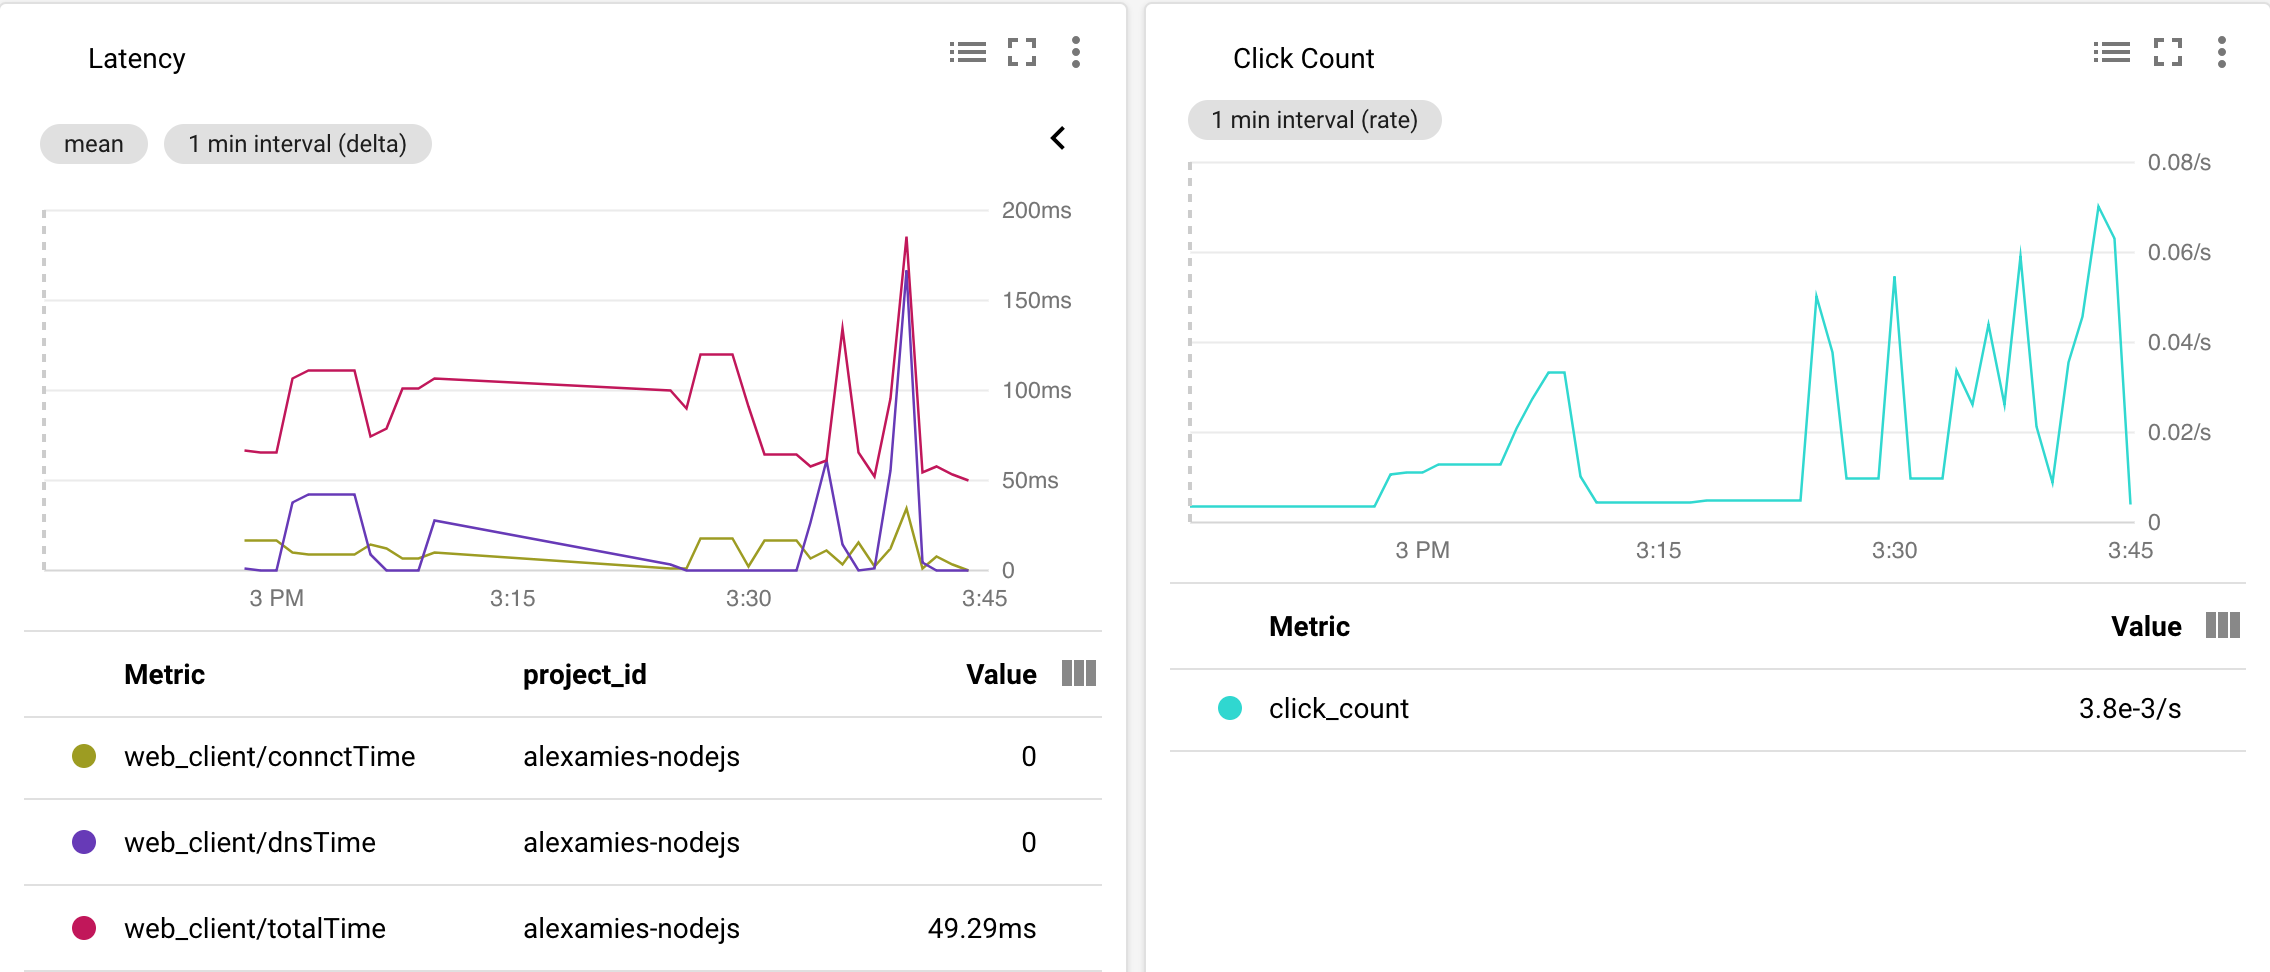
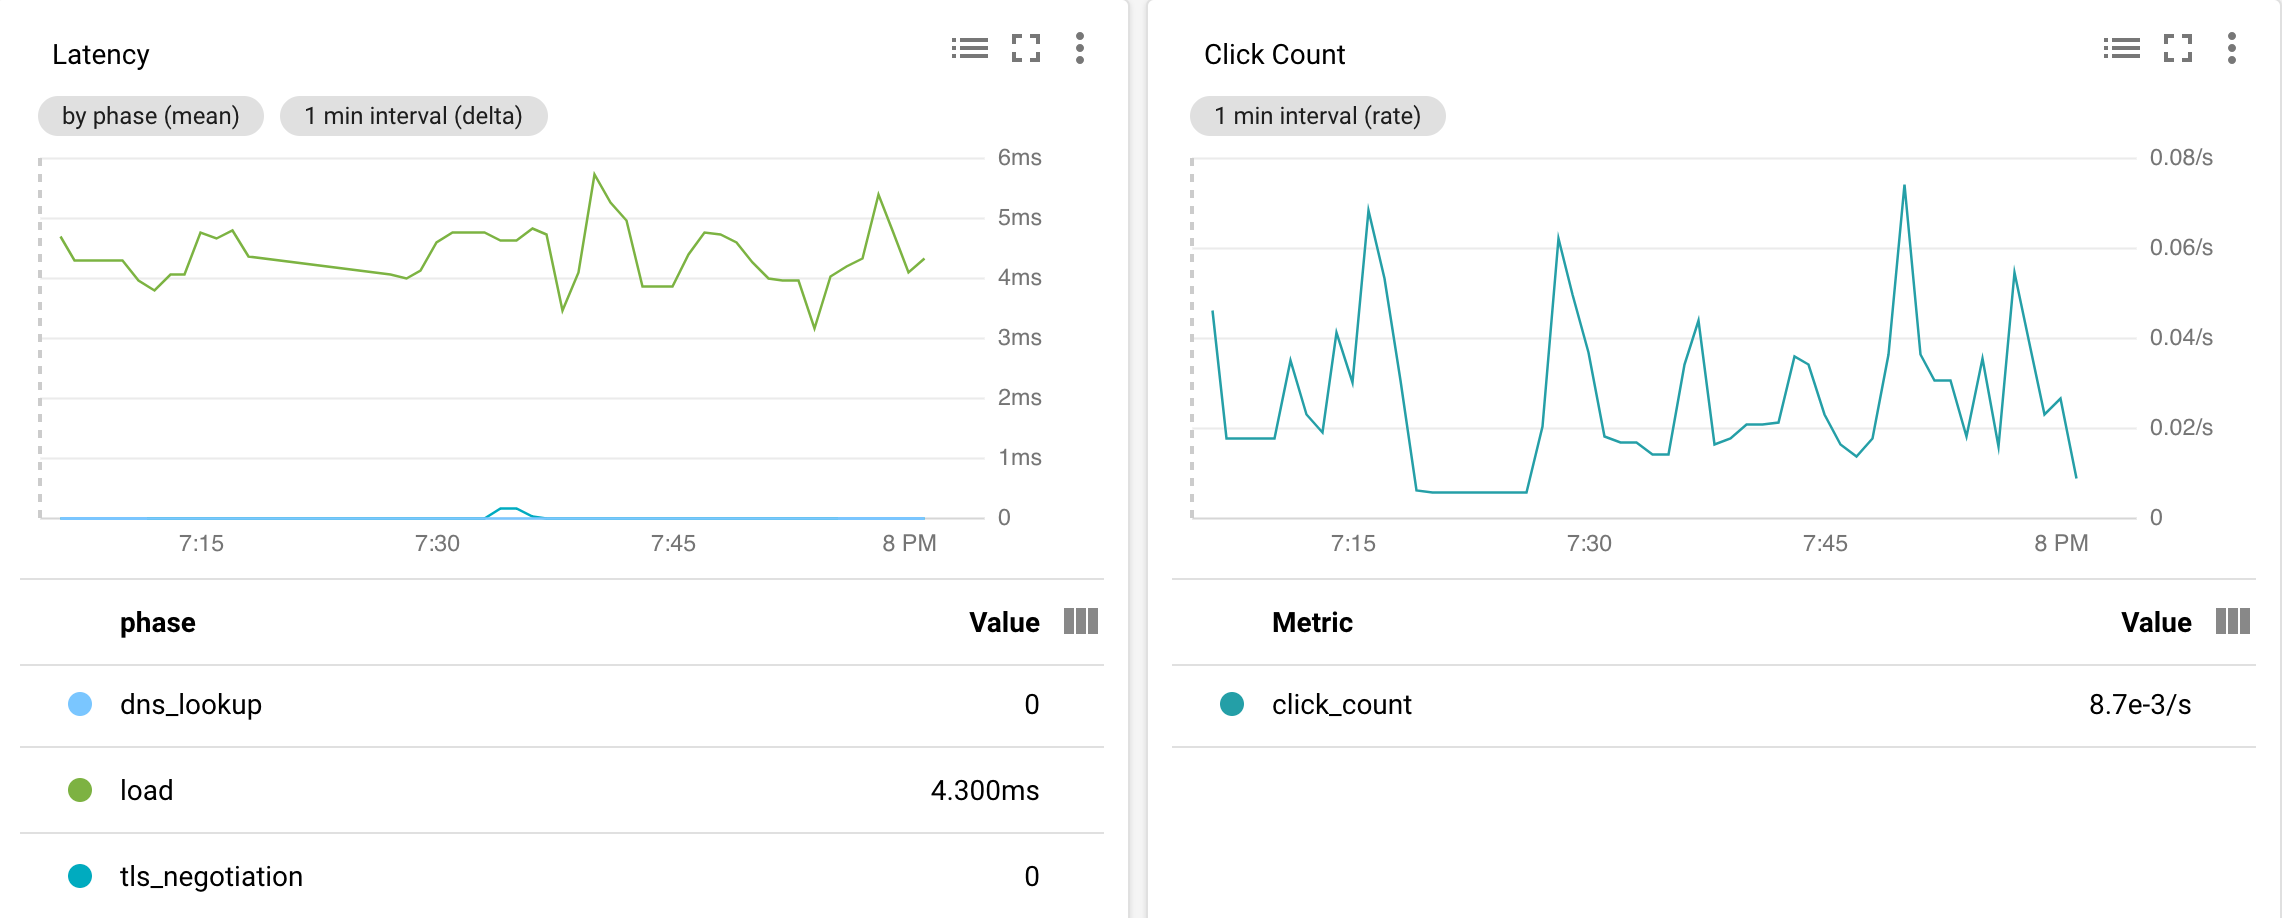
Change to make effective use of tags

diff --git a/examples/stats/web_client_monitoring/app.js b/examples/stats/web_client_monitoring/app.js
@@ -1,5 +1,5 @@
 /**
- * Copyright 2018, Google, Inc.
+ * Copyright 2018, Google LLC
  * Licensed under the Apache License, Version 2.0 (the "License");
  * you may not use this file except in compliance with the License.
  * You may obtain a copy of the License at
@@ -24,103 +24,101 @@ const express = require("express");
 const assert = require('assert');
 const process = require("process");
 const bodyParser = require('body-parser');
+// [START web_client_monitoring_imports]
 const { Stats, MeasureUnit, AggregationType } = require('@opencensus/core');
 const { StackdriverStatsExporter } = require('@opencensus/exporter-stackdriver');
+// [END web_client_monitoring_imports]
 
 const app = express();
 app.use(express.static("web_client"));
 app.use(bodyParser.json());
 
-// The project id must be provided. First, try the local environment
+// The project id must be provided for running in a local environment
 const project = process.env.GOOGLE_CLOUD_PROJECT;
 assert(typeof project !== 'undefined' && project,
   "Please set environment variable GOOGLE_CLOUD_PROJECT to the project id.");
 console.log(`Sending metrics data to project: ${project}`);
 
 // OpenCensus setup
+// [START web_client_monitoring_ocsetup]
 const stats = new Stats();
 const exporter = new StackdriverStatsExporter({projectId: project});
 stats.registerExporter(exporter);
-const mDNSTimeMs = stats.createMeasureDouble("web_client/dnsTime",
+const mLatencyMs = stats.createMeasureDouble("webmetrics/latency",
                        MeasureUnit.MS,
-                       "DNS lookup time");
-const mConnectTimeMs = stats.createMeasureDouble("web_client/connectTime",
-                       MeasureUnit.MS,
-                       "TLS negotiation time");
-const mLatencyMs = stats.createMeasureDouble("web_client/totalTime",
-                       MeasureUnit.MS,
-                       "Total page loading time");
-const mClickCount = stats.createMeasureInt64("web_client/clickCount",
+                       "Latency related to page loading");
+const mClickCount = stats.createMeasureInt64("webmetrics/click_count",
                        MeasureUnit.UNIT,
                        "Number of clicks");
-const tagKey = "client";
-const dnsTimeView = stats.createView(
-  "webmetrics/dnstime",
-  mDNSTimeMs,
-  AggregationType.DISTRIBUTION,
-  [tagKey],
-  "The distribution of the DNS lookup time",
-  // Bucket Boundaries:
-  [0, 25, 50, 75, 100, 200, 400, 600, 800, 1000, 2000, 4000, 6000]
-);
-const connectTimeView = stats.createView(
-  "webmetrics/connecttime",
-  mConnectTimeMs,
-  AggregationType.DISTRIBUTION,
-  [tagKey],
-  "TLS negotiation time",
-  // Bucket Boundaries:
-  [0, 25, 50, 75, 100, 200, 400, 600, 800, 1000, 2000, 4000, 6000]
-);
+const buckets = [0, 1, 2, 3, 4, 5, 6, 8, 10, 13, 16, 20, 25, 30, 40, 50, 65, 80,
+                100, 130, 160, 200, 250, 300, 400, 500, 650, 800, 1000, 2000,
+                5000, 10000, 20000, 50000, 100000];
+const tagPhase = "phase";
 const latencyView = stats.createView(
   "webmetrics/latency",
   mLatencyMs,
   AggregationType.DISTRIBUTION,
-  [tagKey],
-  "The distribution of the latencies",
-  [0, 25, 50, 75, 100, 200, 400, 600, 800, 1000, 2000, 4000, 6000]
+  [tagPhase],
+  "Distribution of latencies",
+  buckets
 );
 const clickCountView = stats.createView(
   "webmetrics/click_count",
   mClickCount,
   AggregationType.COUNT,
-  [tagKey],
-  "The number of lines from standard input"
+  [],
+  "The number of button clicks"
 );
+stats.registerView(latencyView);
+stats.registerView(clickCountView);
+// [END web_client_monitoring_ocsetup]
 
 // Process the metrics data posted to the server
 app.post("/metrics", (req, res) => {
-  let dnsTime = req.body["dnsTime"];
-  let connectTime = req.body["connectTime"];
-  let totalTime = req.body["totalTime"];
-  let clickCount = req.body["count"];
+  const dnsTime = req.body["dnsTime"];
+  const connectTime = req.body["connectTime"];
+  const totalTime = req.body["totalTime"];
+  const clickCount = req.body["count"];
   console.log(`totalTime ${totalTime}`);
-  const tags = { "client": "web" };
-  console.log(`dnsTime ${dnsTime}`);
-  stats.record({
-    measure: mDNSTimeMs,
-    tags,
-    value: dnsTime
-  });
   console.log(`connectTime ${connectTime}`);
-  stats.record({
-    measure: mConnectTimeMs,
-    tags,
-    value: connectTime
-  });
-  console.log(`totalTime ${totalTime}`);
-  stats.record({
-    measure: mLatencyMs,
-    tags,
-    value: totalTime
-  });
+  console.log(`dnsTime ${dnsTime}`);
   console.log(`count ${clickCount}`);
-  stats.record({
-    measure: mClickCount,
-    tags,
-    value: clickCount
-  });
-  res.status(200).send("Received").end();
+  const valueTLSNegotiation = "tls_negotiation";
+  const valueDNSLookup = "dns_lookup";
+  const valueLoad = "load";
+  let tags = { tagPhase: valueDNSLookup };
+  // [START web_client_monitoring_record]
+  try {
+    stats.record({
+      measure: mLatencyMs,
+      tags,
+      value: dnsTime
+    });
+    tags = { tagPhase: valueTLSNegotiation };
+    stats.record({
+      measure: mLatencyMs,
+      tags,
+      value: connectTime
+    });
+    tags = { tagPhase: valueLoad };
+    stats.record({
+      measure: mLatencyMs,
+      tags,
+      value: totalTime
+    });
+    tags = {};
+    stats.record({
+      measure: mClickCount,
+      tags,
+      value: clickCount
+    });
+    res.status(200).send("Received").end();
+    console.log('Competed recording metrics');
+  } catch (err) {
+    console.log(`Could not save stats: ${err}`);
+    res.status(500).send("Error saving stats").end();
+  }
+  // [END web_client_monitoring_record]
 });
 
 // Start the server
@@ -128,4 +126,3 @@ const PORT = process.env.PORT || 8080;
 app.listen(PORT, () => {
   console.log(`Listening on port ${PORT}`);
 });
-

diff --git a/examples/stats/web_client_monitoring/web_client/metricsclient.js b/examples/stats/web_client_monitoring/web_client/metricsclient.js
@@ -1,5 +1,5 @@
 /**
- * Copyright 2018, Google, Inc.
+ * Copyright 2018, Google LLC
  * Licensed under the Apache License, Version 2.0 (the "License");
  * you may not use this file except in compliance with the License.
  * You may obtain a copy of the License at
@@ -28,7 +28,9 @@ class WebMetrics {
    * @param {string} flushbutton - ID of the flush button DOM element
    */
   constructor(incrementbutton, flushbutton) {
+     // [START web_client_monitoring_click_counter]
     this.click_counter_ = 0;
+    // [END web_client_monitoring_click_counter]
     const wm = this;
     const incrementbtn = document.querySelector(incrementbutton);
     incrementbtn.onclick = function() {
@@ -45,11 +47,13 @@ class WebMetrics {
    * @private
    */
   post_data_(count) {
+    // [START web_client_monitoring_performance]
     const pageNav = performance.getEntriesByType("navigation")[0];
     const dnsTime = pageNav.domainLookupEnd - pageNav.domainLookupStart;
     const connectTime = pageNav.connectEnd - pageNav.connectStart;
     const ttfb = pageNav.responseStart - pageNav.requestStart;
     const totalTime = pageNav.responseEnd - pageNav.requestStart;
+    // [END web_client_monitoring_performance]
     const data = {
       dnsTime: dnsTime,
       connectTime: connectTime,

diff --git a/examples/stats/web_client_monitoring/web_client/client_app.js b/examples/stats/web_client_monitoring/web_client/client_app.js
@@ -1,5 +1,5 @@
 /**
- * Copyright 2018, Google, Inc.
+ * Copyright 2018, Google LLC
  * Licensed under the Apache License, Version 2.0 (the "License");
  * you may not use this file except in compliance with the License.
  * You may obtain a copy of the License at

diff --git a/examples/stats/web_client_monitoring/README.md b/examples/stats/web_client_monitoring/README.md
@@ -7,7 +7,8 @@ below for a graphical description.
 
 ## Prerequisites
 Install [Node.js](https://nodejs.org) in your local development environment.
-Create a GCP project and set it as your default project with the command
+Create a Google Cloud Platform (GCP) project and set it as your default project
+with the command
 ```
 export GOOGLE_CLOUD_PROJECT=[your project id]
 gcloud config set project $GOOGLE_CLOUD_PROJECT
@@ -18,6 +19,15 @@ Node.js runtime for it to send the data to Stackdriver when running in a local
 development environment. The choice of variable name matches the [App Engine
 Flex](https://cloud.google.com/appengine/docs/standard/nodejs/runtime#environment_variables)
 environment variable name.
+
+Enable the [Stackdriver API](https://cloud.google.com/monitoring/api/v3/) with
+the command
+```
+gcloud services enable monitoring
+```
+
+You can run the example with another monitoring backend if you modify the code
+in app.js to use a different exporter.
 
 ## Web Client Compilation
 Set up Nodejs and Webpack:
@@ -38,6 +48,7 @@ to make a service account key available via the GOOGLE_APPLICATION_CREDENTIALS
 environment variable. Then serve the HTML file from the Node.js server with
 Express:
 ```
+cd ..
 npm install
 npm start
 ```
@@ -64,3 +75,11 @@ for the (integer value) click counts.
 
 <img src='https://github.com/alexamies/opencensus-node/examples/stats/web_client_monitoring/stackdriver_dashboard.png'/>
 
+## Troubleshooting
+If you monitoring data does not show up in Stackdriver, check the GCP
+[API Dashboard](https://cloud.google.com/apis/docs/monitoring) for the Cloud
+Monitoring API and the [App Engine
+logs](https://cloud.google.com/appengine/articles/logging) for errors in the
+Google Cloud Console and Developer tools in the browser. See [Troubleshooting
+the Monitoring API](https://cloud.google.com/monitoring/api/troubleshooting)
+for more tips.
